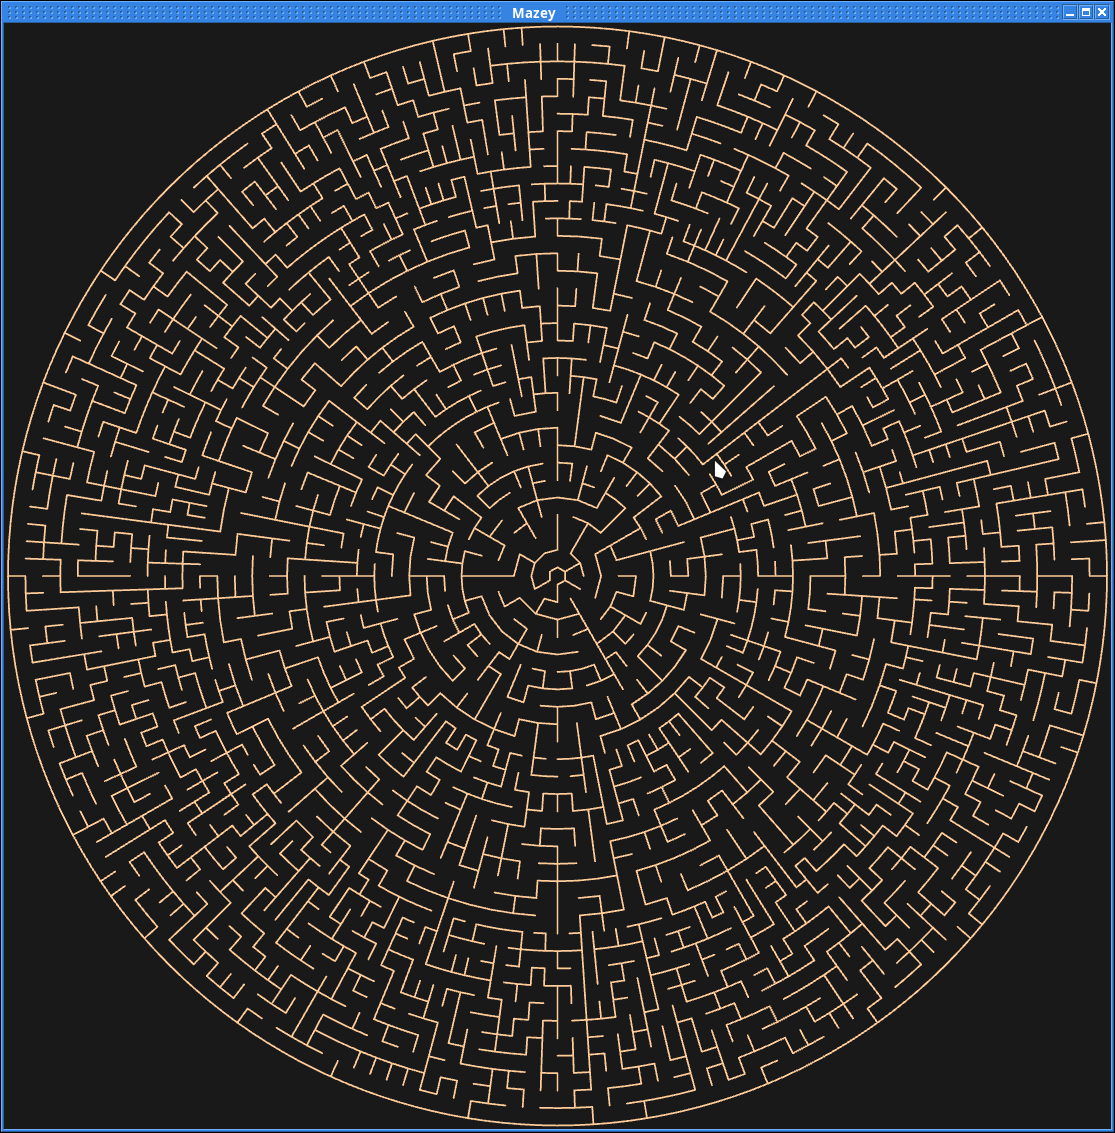
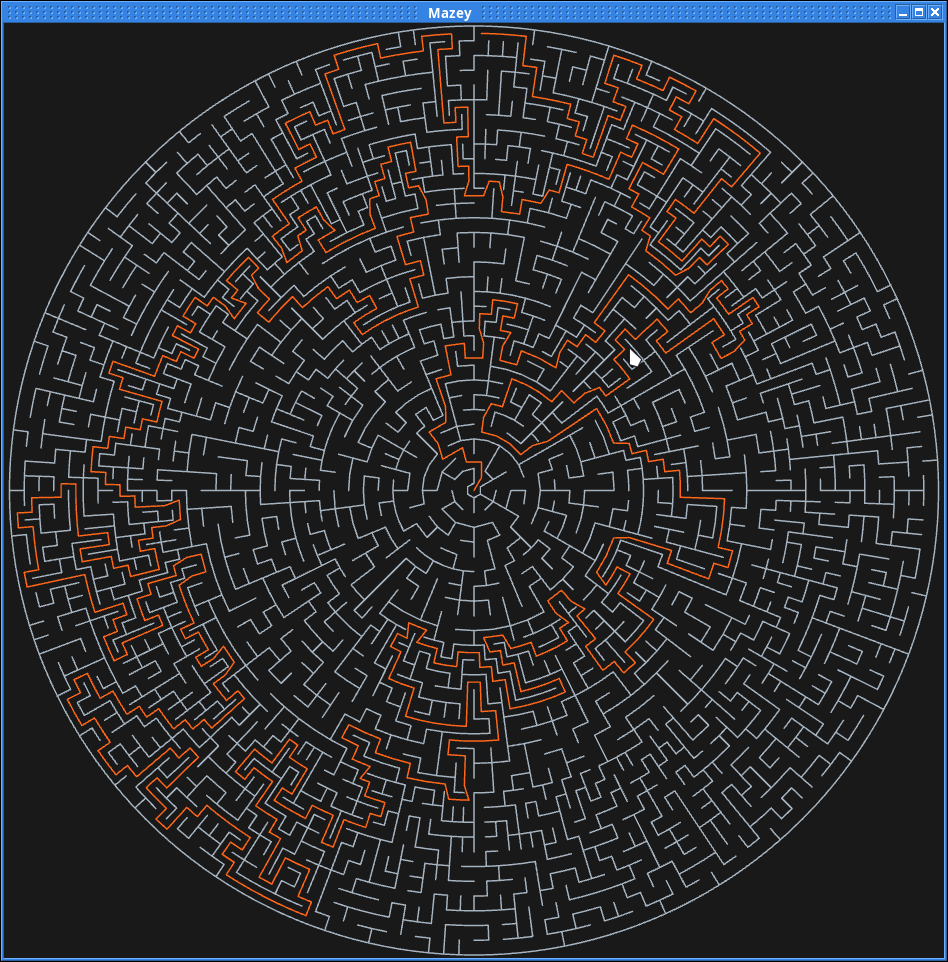
Add circle maze solution.

Changed region(s): [[0.0, 0.0, 1.0, 1.0]]

diff --git a/src/flo_drawer.rs b/src/flo_drawer.rs
@@ -3,7 +3,7 @@ use flo_draw::{
     create_drawing_window, with_2d_graphics,
 };
 
-use crate::{circle_maze::CircleMaze, Maze, Pair};
+use crate::{circle_maze::CircleMaze, util::Coord, Maze, Pair};
 
 pub struct FloDrawer;
 
@@ -110,7 +110,7 @@ impl FloDrawer {
         });
     }
 
-    pub fn draw_circle_maze(maze: CircleMaze) {
+    pub fn draw_circle_maze(maze: CircleMaze, solution: Vec<Coord>) {
         with_2d_graphics(move || {
             let canvas = create_drawing_window("Mazey");
 
@@ -126,7 +126,7 @@ impl FloDrawer {
                 gc.canvas_height(h + (MAZE_PADDING * 2.0));
                 gc.center_region(0.0, -MAZE_PADDING, w, h + MAZE_PADDING);
 
-                gc.stroke_color(Color::Rgba(1.0, 0.8, 0.6, 1.0));
+                gc.stroke_color(Color::Rgba(0.65, 0.7, 0.75, 1.0));
                 gc.line_width(LINE_WIDTH);
                 gc.line_cap(LineCap::Round);
 
@@ -181,7 +181,40 @@ impl FloDrawer {
                         }
                     }
                 }
+
+                // Solution.
+                if solution.len() > 1 {
+                    gc.stroke_color(Color::Rgba(1.0, 0.4, 0.1, 1.0));
+                    for i in 1..solution.len() {
+                        let (x_from, y_from) = FloDrawer::circle_maze_pos_for_cell(
+                            &maze,
+                            solution[i - 1],
+                            level_height,
+                        );
+                        let (x_to, y_to) =
+                            FloDrawer::circle_maze_pos_for_cell(&maze, solution[i], level_height);
+                        gc.move_to(x_from + offset_x, y_from + offset_y);
+                        gc.line_to(x_to + offset_x, y_to + offset_y);
+                        gc.stroke();
+                    }
+                }
             });
         });
+    }
+
+    fn circle_maze_pos_for_cell(
+        maze: &CircleMaze,
+        cell_coord: Coord,
+        row_height: f32,
+    ) -> (f32, f32) {
+        let row_lenght = maze.cells[cell_coord.y].len();
+        let r = row_height * cell_coord.y as f32;
+        let alpha = (360.0 / row_lenght as f32) * (cell_coord.x as f32 + 0.5);
+        let alpha_rad = (alpha / 180.0) * std::f32::consts::PI;
+        let beta_rad = ((90.0 - alpha) / 180.0) * std::f32::consts::PI;
+        let x = r * alpha_rad.sin();
+        let y = r * beta_rad.sin();
+
+        (x, y)
     }
 }

diff --git a/src/main.rs b/src/main.rs
@@ -53,5 +53,5 @@ fn main() {
     let solution =
         Solver::dijkstra_path_finding_solver_for_circle_maze(&circle_maze, start, finish);
     // dbg!(solution);
-    FloDrawer::draw_circle_maze(circle_maze);
+    FloDrawer::draw_circle_maze(circle_maze, solution);
 }
